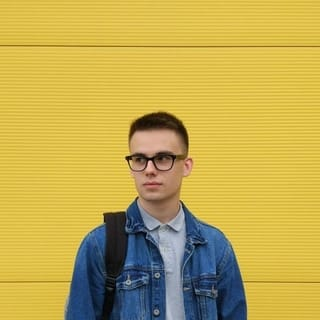
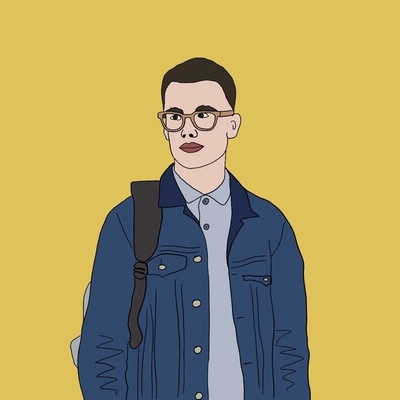
update layout

diff --git a/src/App.svelte b/src/App.svelte
@@ -1,5 +1,9 @@
 <script>
 	import Emojis from './Emojis.svelte';
+	import photo from './images/vkrbt.jpg';
+	import photox2 from './images/vkrbt@2x.jpg';
+
+	export let image = photo;
 
 	let birthday = Date.UTC(1998, 5, 8);
 	let today = Date.now();
@@ -10,23 +14,44 @@
 
 <style>
 	.content {
-		background: rgba(255, 255, 255, 0.7);
 		z-index: 1;
 		display: inline-block;
 		padding: 16px;
+		display: flex;
+		justify-content: center;
+		align-items: center;
+		height: 100%;
+		font-family: 'Arvo';
 	}
 
-	* {
-		font-family: 'Arvo';
+	@media screen and (max-width: 576px) {
+		.content {
+			flex-direction: column;
+		}
+	}
+
+	.description {
+		padding-left: 16px;
+		background: rgba(255, 255, 255, 0.7);
+	}
+
+	.picture {
+		width: 200px;
+		height: 200px;
 	}
 </style>
 
 <main class="content">
-	<h1>Vladislav Korbut</h1>
-	<h2>Frontend developer</h2>
-	<p>
-		My name is <strong>Vlad Korbut</strong>. I'm {ageInYears} years old. I live in Minsk, Belarus.
-	</p>
-	<p>You can contact me via <a href="https://t.me/vkrbt/">telegram</a> or <a href="mailto:vkrbt.me">email</a></p>
+	<img class="picture" src={image} srcset="{photox2} 2x" alt="my portrait" />
+	<div class="description">
+		<h1>Vladislav Korbut</h1>
+		<h2>Frontend developer</h2>
+		<p>
+			My name is <strong>Vlad Korbut</strong>. I'm {ageInYears} years old. I live in Minsk, Belarus.
+		</p>
+		<p>
+			You can contact me via <a href="https://t.me/vkrbt/">telegram</a> or <a href="mailto:vkrbt.me">email</a>
+		</p>
+	</div>
 </main>
 <Emojis number={50}></Emojis>

diff --git a/src/Emojis.svelte b/src/Emojis.svelte
@@ -1,6 +1,7 @@
 <script>
 	import Emoji from './Emoji.svelte';
 	import {generateEmoji} from './generateEmoji';
+	import {throttle} from './throttle';
 	import {isDeviceOrientationSupported, isTouchSupported} from './device';
 
 	export let number;
@@ -44,6 +45,12 @@
 			currentYMovement += event.movementY;
 		});
 	}
+
+	export let updateEmoji = throttle((event) => {
+		randomEmojis = generateEmoji(number, radius);
+		currentXMovement = 0;
+		currentYMovement = 0;
+	}, 150);
 </script>
 
 <style>
@@ -59,6 +66,7 @@
 </style>
 
 <svelte:window
+	on:resize|passive={updateEmoji}
 	on:mousemove|passive={isOrientation ? null : handleMouseMove}
 	on:deviceorientation|passive={isOrientation ? handleDeviceOrientation : null}
 />

diff --git a/rollup.config.js b/rollup.config.js
@@ -3,6 +3,7 @@ import resolve from 'rollup-plugin-node-resolve';
 import commonjs from 'rollup-plugin-commonjs';
 import livereload from 'rollup-plugin-livereload';
 import { terser } from 'rollup-plugin-terser';
+import image from 'rollup-plugin-img';
 
 const production = !process.env.ROLLUP_WATCH;
 
@@ -15,6 +16,9 @@ export default {
 		file: 'public/bundle.js'
 	},
 	plugins: [
+		image({
+			output: 'public',
+		}),
 		svelte({
 			// enable run-time checks when not in production
 			dev: !production,

diff --git a/src/throttle.js b/src/throttle.js
@@ -1,0 +1,21 @@
+export function throttle(callback, wait, immediate = false) {
+  let timeout = null;
+  let initialCall = true;
+
+  return function() {
+    const callNow = immediate && initialCall;
+    const next = () => {
+      callback.apply(this, arguments);
+      timeout = null;
+    };
+
+    if (callNow) {
+      initialCall = false;
+      next();
+    }
+
+    if (!timeout) {
+      timeout = setTimeout(next, wait);
+    }
+  };
+}

diff --git a/public/global.css b/public/global.css
@@ -5,11 +5,7 @@ html, body {
 }
 
 body {
-	color: #333;
 	margin: 0;
-	padding: 8px;
-	box-sizing: border-box;
-	font-family: -apple-system, BlinkMacSystemFont, "Segoe UI", Roboto, Oxygen-Sans, Ubuntu, Cantarell, "Helvetica Neue", sans-serif;
 }
 
 a {
@@ -59,4 +55,8 @@ button:active {
 
 button:focus {
 	border-color: #666;
+}
+
+* {
+	box-sizing: border-box;
 }

diff --git a/src/main.js b/src/main.js
@@ -2,9 +2,7 @@ import App from './App.svelte';
 
 const app = new App({
 	target: document.body,
-	props: {
-		name: 'world'
-	}
+	props: {},
 });
 
 export default app;
